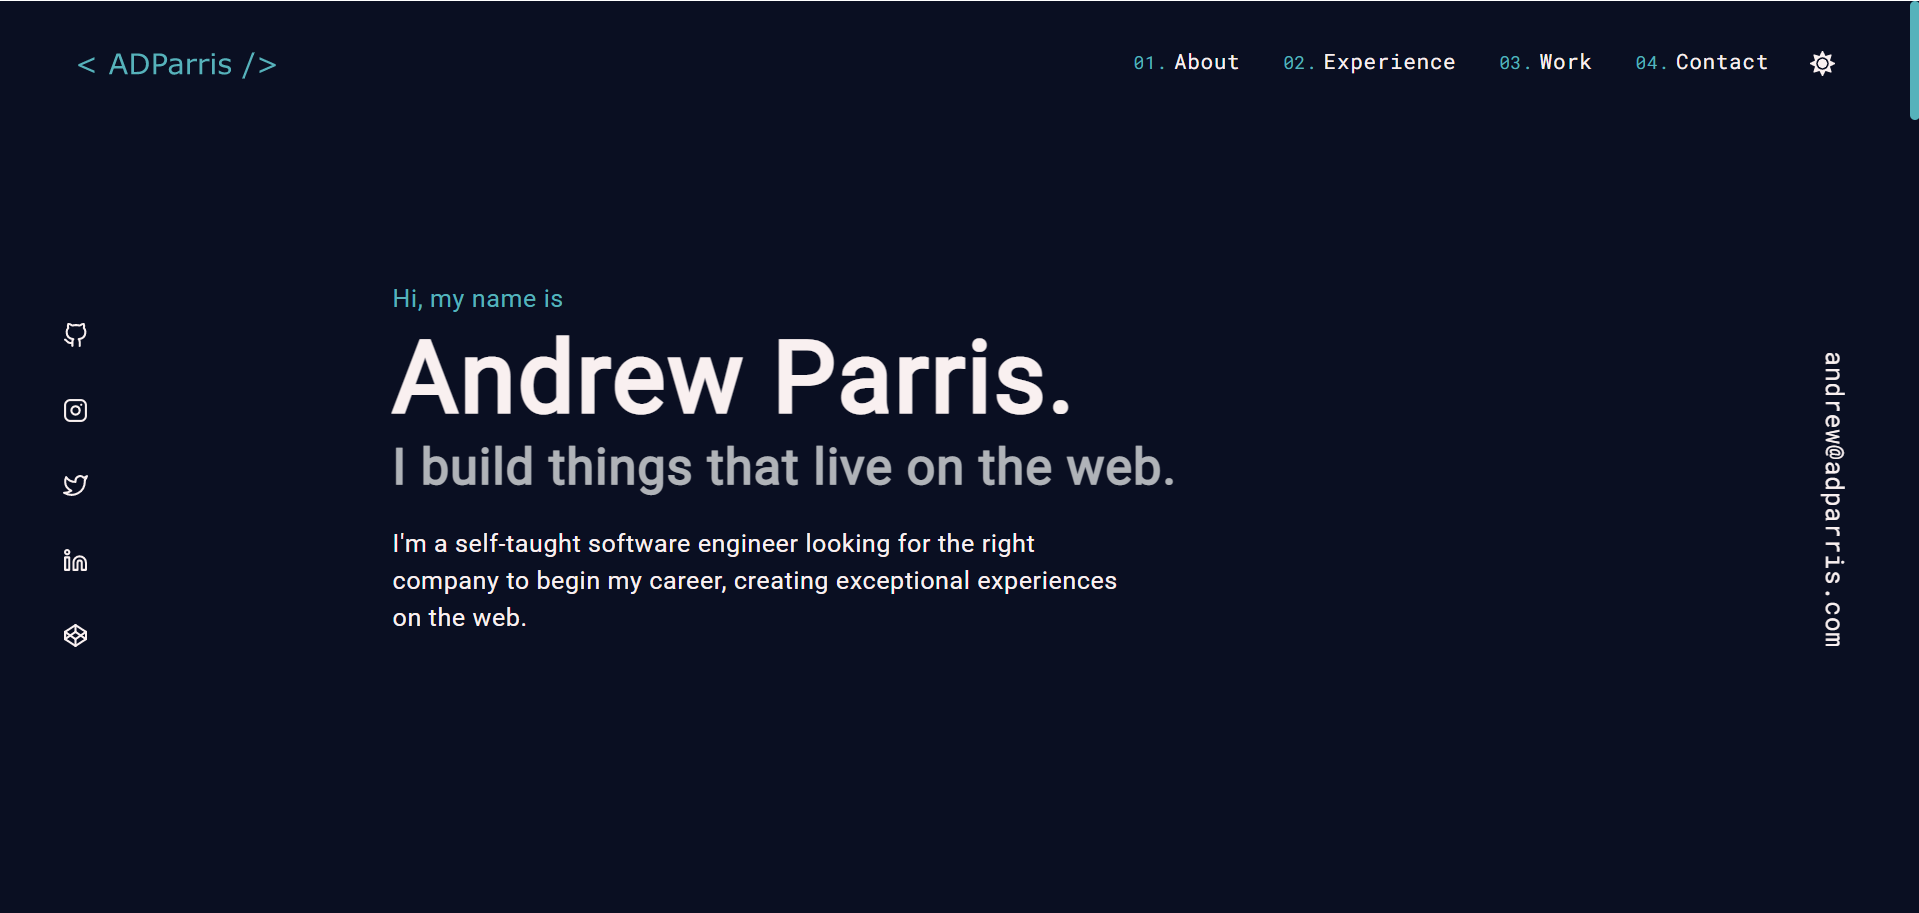
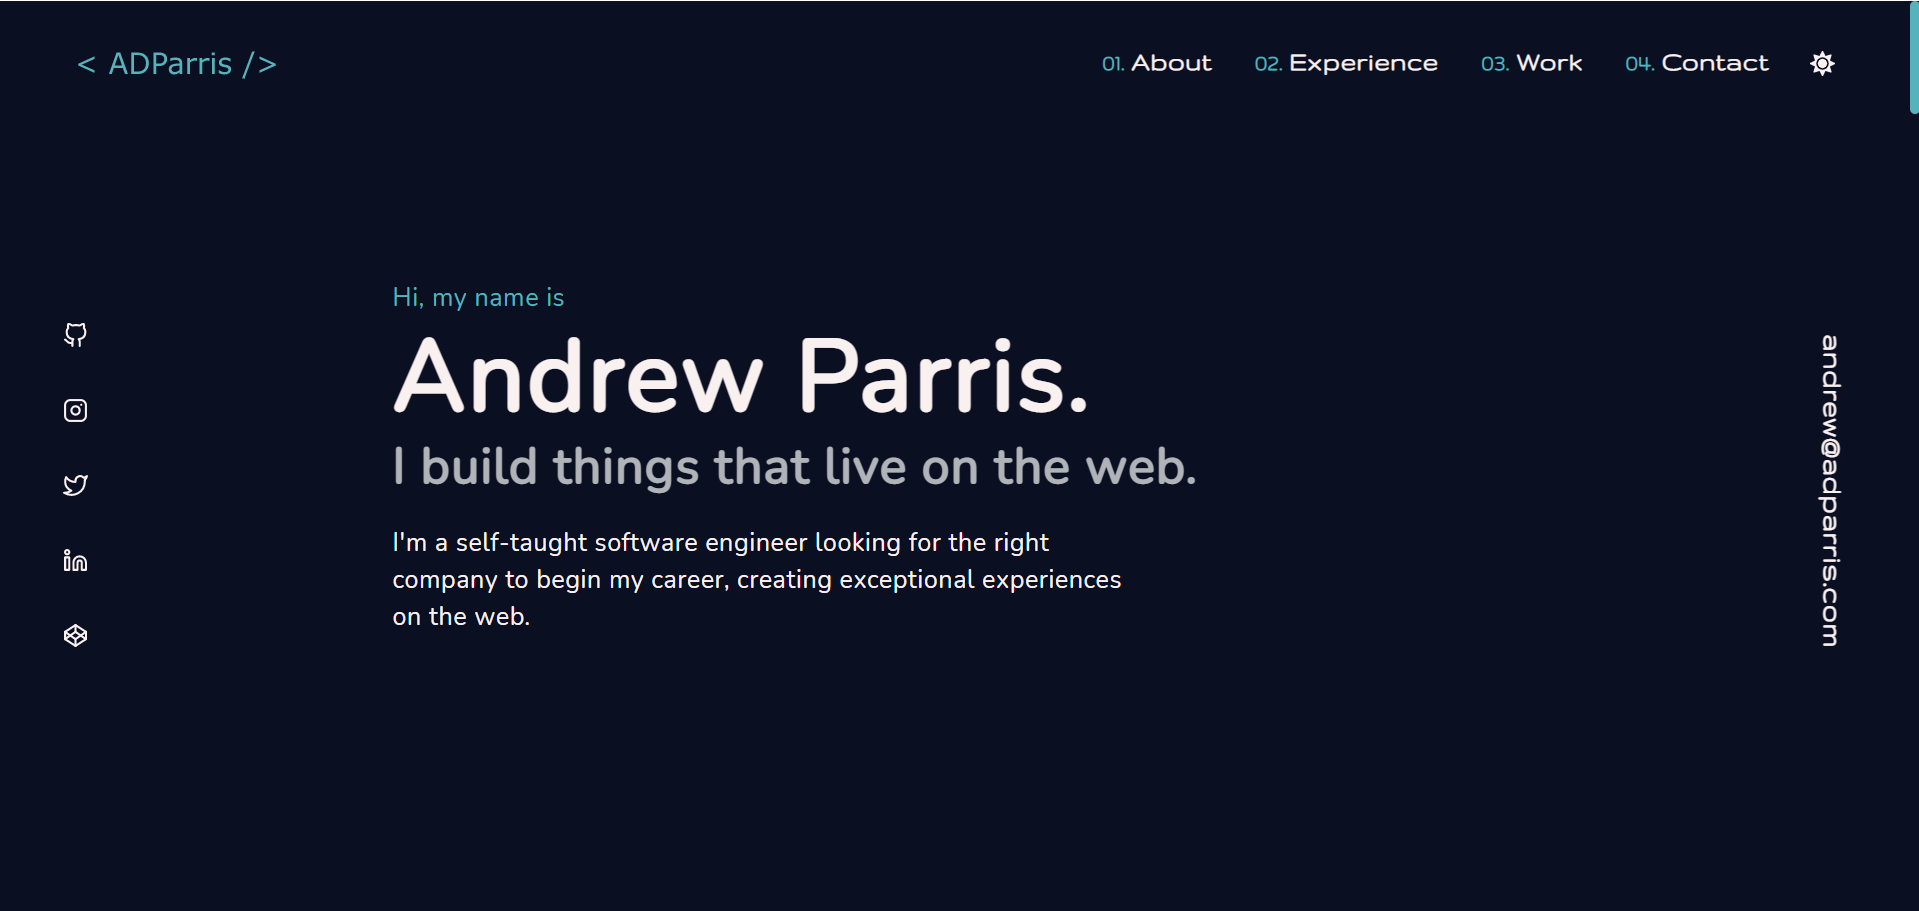
updated site images, added CTA in hero

diff --git a/src/components/sections/HeroSection.tsx b/src/components/sections/HeroSection.tsx
@@ -1,16 +1,19 @@
 import React from 'react';
 
-import { Text } from '@chakra-ui/react';
+import { Flex, Text } from '@chakra-ui/react';
 import { motion, useReducedMotion } from 'framer-motion';
 
 import { Sizes } from '@data/constants';
 import { setSize, useColors } from '@utils';
 
+import { CustomButton } from '@components/common';
 import { SectionContainer } from './SectionContainer';
 
 interface IComponentProps {
 	name: string;
 }
+
+const handleContactClick = () => window.open('mailto:andrew@adparris.com');
 
 export const HeroSection: React.FC<IComponentProps> = ({ name }) => {
 	const { normalHighlightColor, secondaryTextColor } = useColors();
@@ -59,6 +62,16 @@ export const HeroSection: React.FC<IComponentProps> = ({ name }) => {
 				I'm a self-taught software engineer looking for the right company
 				to begin my career, creating exceptional experiences on the web.
 			</Text>
+			<Flex
+				as={motion.div}
+				justifyContent="center"
+				mt={setSize(Sizes.gap)}
+				variants={variants}
+			>
+				<CustomButton onClick={handleContactClick}>
+					<Text>Get In Touch</Text>
+				</CustomButton>
+			</Flex>
 		</SectionContainer>
 	);
 };

diff --git a/gatsby-config.js b/gatsby-config.js
@@ -58,6 +58,7 @@ module.exports = {
 		author: `Andrew Parris`,
 		description: `Andrew Parris is a software engineer who specializes in building (and occasionally designing) exceptional digital experiences.`,
 		email: `andrew@adparris.com`,
+		image: '/og.png',
 		navLinks: [`about`, `experience`, `work`, `contact`],
 		repo: `https://github.com/ADParris/portfolio`,
 		socials: [

diff --git a/src/components/common/displays/ImageDisplay.tsx b/src/components/common/displays/ImageDisplay.tsx
@@ -58,10 +58,9 @@ export const ImageDisplay: React.FC<IComponentProps> = ({
 					>
 						<Text
 							color={normalHighlightColor}
-							fontFamily="Roboto Mono"
+							fontFamily="Gruppo"
 							lineHeight={1.1}
 							pb={setSize(0.24)}
-							style={{ wordSpacing: `-${setSize(0.5)}` }}
 						>
 							{title}
 						</Text>
